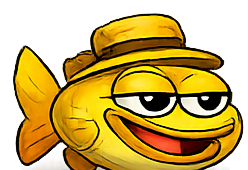
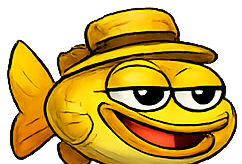
Clean fish cutouts and add swim animation

diff --git a/src/components/game/MonadFishCanvas.tsx b/src/components/game/MonadFishCanvas.tsx
@@ -13,6 +13,26 @@ const FISH_SPRITE_MAP: Record<string, number> = {
     'mutant': 6,
 };
 
+const drawAnimatedSprite = (
+    ctx: CanvasRenderingContext2D,
+    img: HTMLImageElement,
+    width: number,
+    height: number,
+    phase: number,
+    intensity = 1
+) => {
+    const swim = Math.sin(phase * 2.2);
+    const glide = Math.sin(phase * 1.15);
+    const skew = Math.sin(phase * 2.8) * 0.018 * intensity;
+    const squash = swim * 0.018 * intensity;
+
+    ctx.save();
+    ctx.translate(glide * 0.8 * intensity, Math.cos(phase * 1.35) * 0.75 * intensity);
+    ctx.transform(1 + squash, skew, 0, 1 - squash * 0.35, 0, 0);
+    ctx.drawImage(img, -width / 2, -height / 2, width, height);
+    ctx.restore();
+};
+
 interface MonadFishCanvasProps {
     onCast: () => void;
     gameState: string;
@@ -54,7 +74,7 @@ const MonadFishCanvas: React.FC<MonadFishCanvasProps> = ({ onCast, gameState, la
         const fishFiles = ['fish_carp.png', 'fish_perch.png', 'fish_bream.png', 'fish_pike.png', 'fish_catfish.png', 'fish_goldfish.png', 'fish_mutant.png', 'fish_leviathan.png'];
         fishFiles.forEach((file, i) => {
             const img = new Image();
-            img.src = publicAsset('assets/' + file) + '?v=' + ts + '&fix=nobelly+catfish';
+            img.src = publicAsset('assets/' + file) + '?v=' + ts + '&fix=clean-cutout-swim';
             img.onload = () => { fishImgsRef.current[i] = img; };
         });
 
@@ -245,7 +265,7 @@ const MonadFishCanvas: React.FC<MonadFishCanvasProps> = ({ onCast, gameState, la
             if (img) {
                 const aspect = img.width / img.height;
                 const dw = this.size * 2, dh = dw / aspect;
-                ctx.drawImage(img, -dw / 2, -dh / 2, dw, dh);
+                drawAnimatedSprite(ctx, img, dw, dh, this.wobble, this.state === 'chasing' ? 1.35 : 1);
             } else {
                 const colors = ['#4488ff', '#ff8844', '#44aa44', '#8844cc'];
                 ctx.fillStyle = colors[this.fishType] || '#4488ff';
@@ -515,7 +535,7 @@ const MonadFishCanvas: React.FC<MonadFishCanvasProps> = ({ onCast, gameState, la
                     ctx.save();
                     ctx.translate(bx, hookY + 10);
                     ctx.rotate(Math.sin(t * 3) * 0.2);
-                    ctx.drawImage(fImg, -fW / 2, -fH / 2, fW, fH);
+                    drawAnimatedSprite(ctx, fImg, fW, fH, t * 2.2, 1.4);
                     ctx.restore();
                 }
             }
